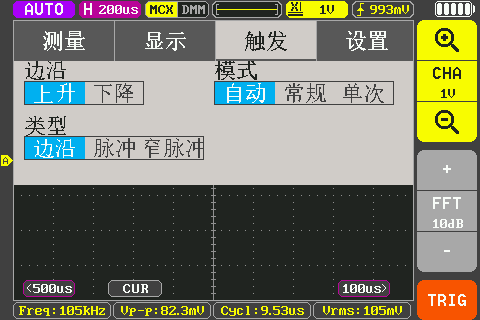
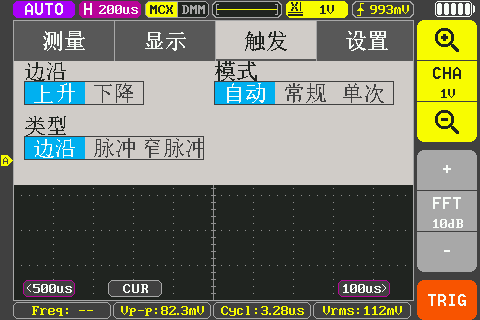
update

diff --git a/patch/label_yfix.py b/patch/label_yfix.py
@@ -1,0 +1,30 @@
+import io
+
+P = r"F:\desk\study\build\opendm40-0.3.0\firmware\src\scope_ui.rs"
+t = io.open(P, encoding="utf-8").read()
+
+
+def sub(old, new, tag):
+    global t
+    if t.count(old) != 1:
+        raise SystemExit("%s: %d" % (tag, t.count(old)))
+    t = t.replace(old, new)
+
+
+# labels back inside the clipping area (pc starts at y=61)
+sub('(rect(24, 58, 189, 22), "滚动"), (rect(24, 102, 189, 22), "余辉"), (rect(214, 58, 189, 22), "亮度"), (rect(214, 102, 189, 22), "网格")',
+    '(rect(24, 61, 189, 20), "滚动"), (rect(24, 105, 189, 20), "余辉"), (rect(214, 61, 189, 20), "亮度"), (rect(214, 105, 189, 20), "网格")',
+    "display labels")
+
+sub('fill_text(rect(24, 57, 189, 22), pc, C_POP_BG, sf::TEXT22, rect(24, 57, 189, 22), "边沿", C_FILL, 1, 0);',
+    'fill_text(rect(24, 61, 189, 20), pc, C_POP_BG, sf::TEXT22, rect(24, 61, 189, 20), "边沿", C_FILL, 1, 0);',
+    "edge")
+sub('fill_text(rect(214, 57, 189, 22), pc, C_POP_BG, sf::TEXT22, rect(214, 57, 189, 22), "模式", C_FILL, 1, 0);',
+    'fill_text(rect(214, 61, 189, 20), pc, C_POP_BG, sf::TEXT22, rect(214, 61, 189, 20), "模式", C_FILL, 1, 0);',
+    "mode")
+sub('fill_text(rect(24, 114, 180, 22), pc, C_POP_BG, sf::TEXT22, rect(24, 114, 180, 22), "类型", C_FILL, 1, 0);',
+    'fill_text(TT_LABEL, pc, C_POP_BG, sf::TEXT22, TT_LABEL, "类型", C_FILL, 1, 0);',
+    "type")
+
+io.open(P, "w", encoding="utf-8", newline="\n").write(t)
+print("labels back at y=61/105")

diff --git a/patch/fix_inf.py b/patch/fix_inf.py
@@ -1,0 +1,11 @@
+import io
+
+P = r"F:\desk\study\build\opendm40-0.3.0\firmware\src\scope_ui.rs"
+t = io.open(P, encoding="utf-8").read()
+OLD = '&["\u5173", "\u6700\u5c0f", "1s", "\u221e"]'
+NEW = '&["\u5173", "\u6700\u5c0f", "1s", "\u65e0\u9650"]'
+if t.count(OLD) != 1:
+    raise SystemExit("count %d" % t.count(OLD))
+t = t.replace(OLD, NEW)
+io.open(P, "w", encoding="utf-8", newline="\n").write(t)
+print("inf -> wuxian")
